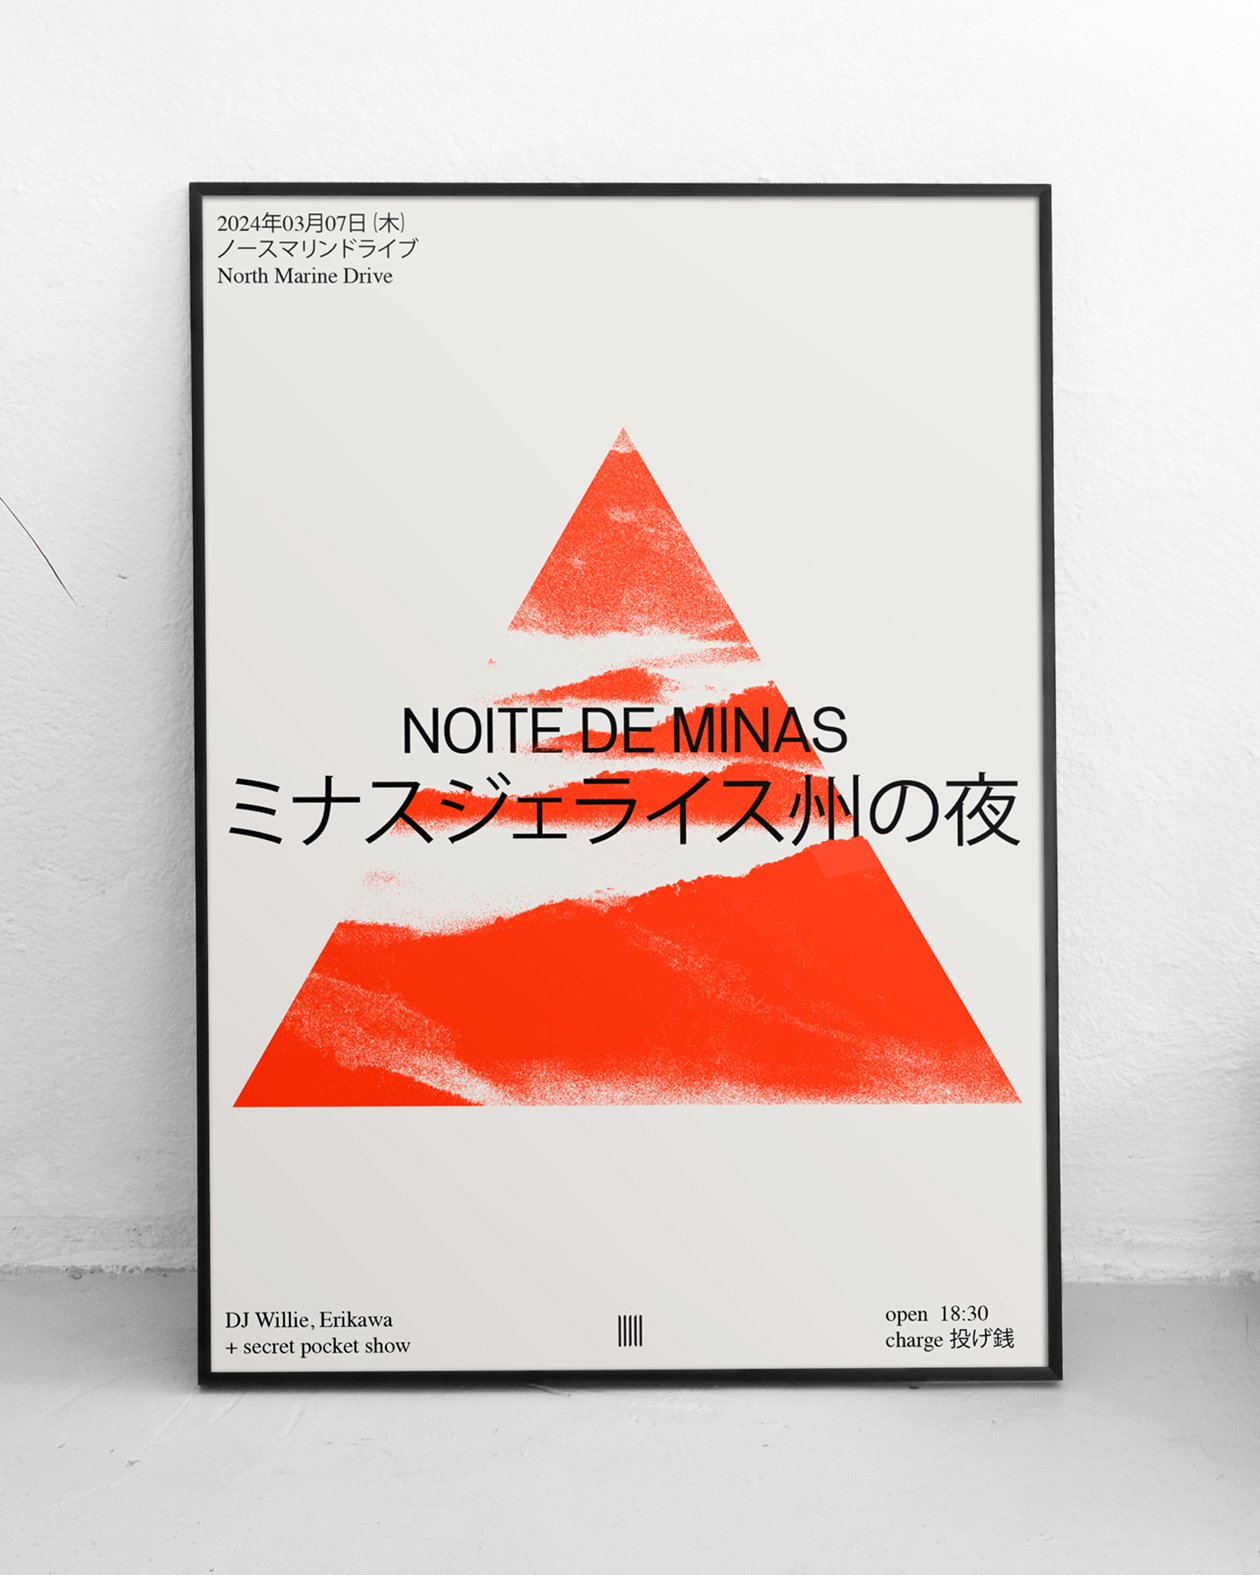
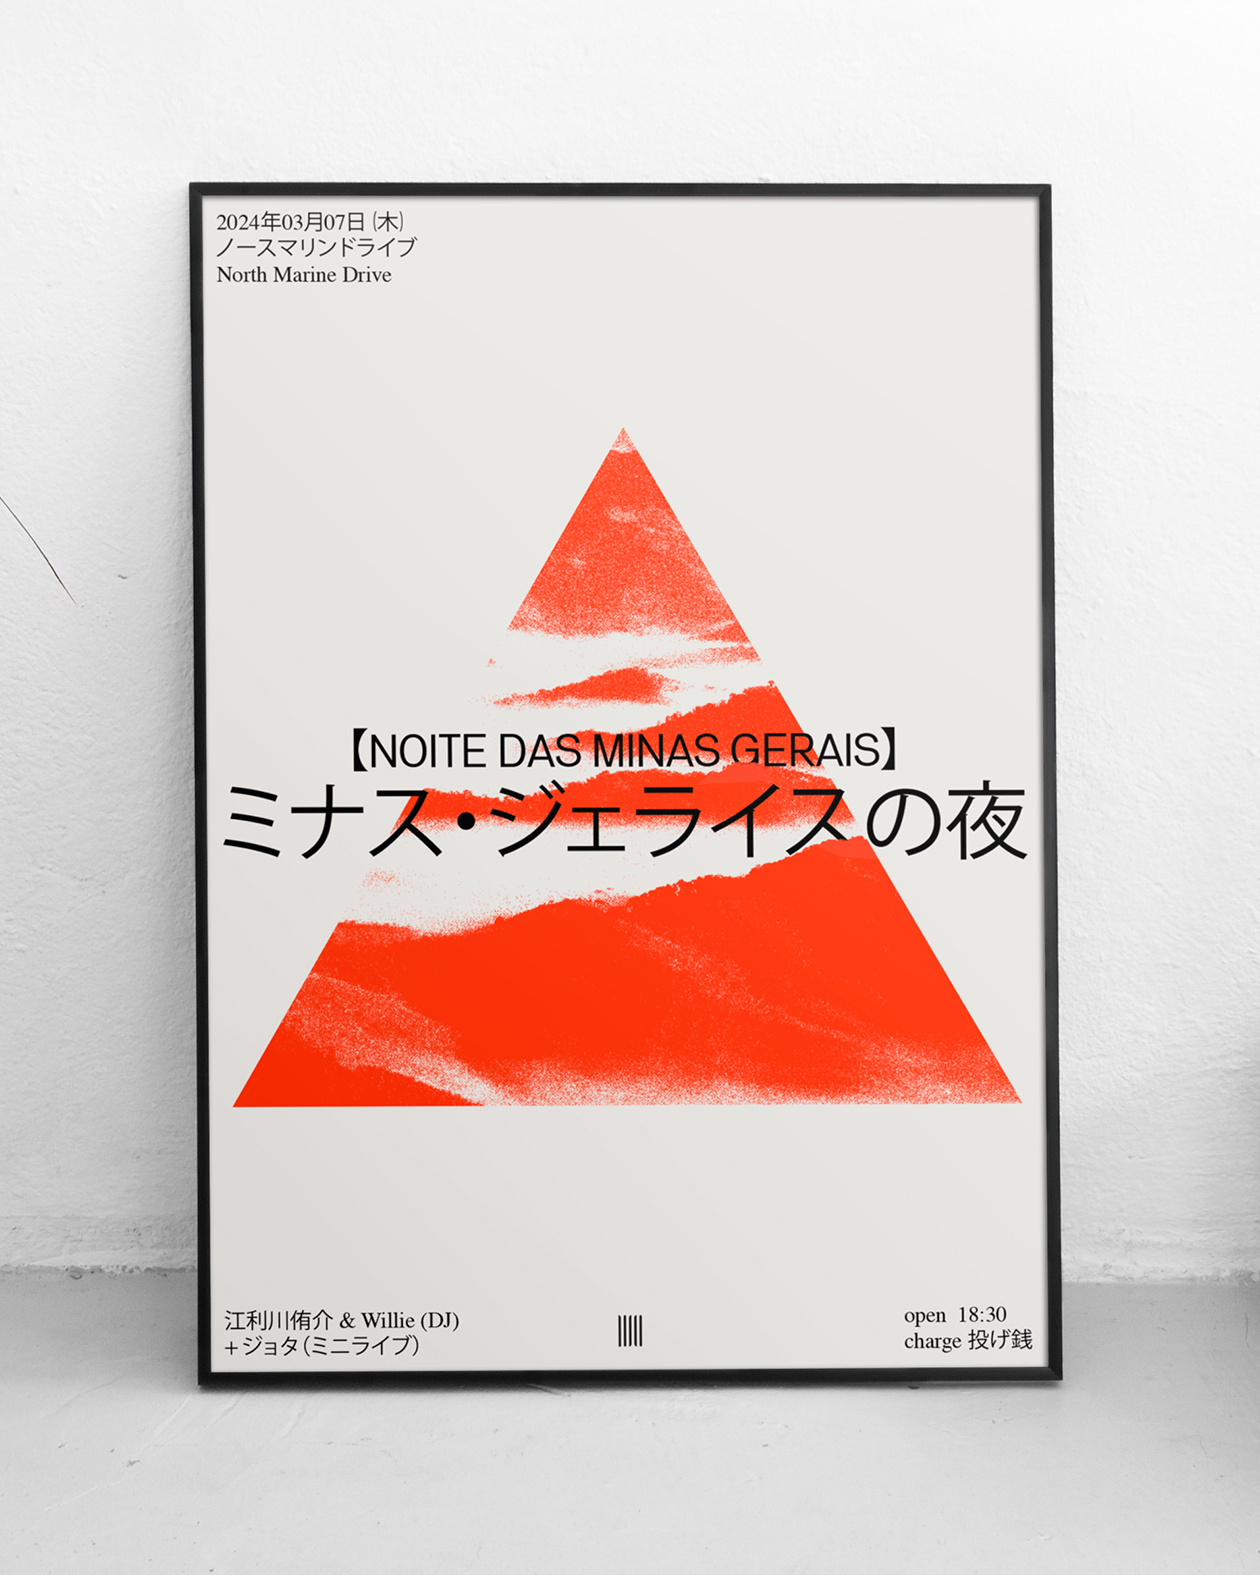
content: update projects

diff --git a/public/index.html b/public/index.html
@@ -73,38 +73,38 @@
   </grid>
   <grid columns="4" columns-sm="1" gap="8" class="index__posts"><grid-cell >
         <figure>
-        <img loading="lazy" src="240307_noitedeminas/noitedeminas@thumbnail.jpg" alt="ジョタ, 江利川侑介 ＆ Willie (DJ) @ ノースマリンドライブ" /><figcaption>
-              ジョタ, 江利川侑介 ＆ Willie (DJ) @ ノースマリンドライブ (2024) /  Music event in Shibuya
+        <img loading="lazy" src="240307_noitedeminas/noitedeminas@thumbnail.jpg" alt="ジョタ（ミニライブ）, 江利川侑介 &amp; Willie (DJ) @ ノースマリンドライブ" /><figcaption>
+              ジョタ（ミニライブ）, 江利川侑介 &amp; Willie (DJ) @ ノースマリンドライブ (2024) /  Art for music event in Tokyo
             </figcaption></figure>
       </grid-cell><grid-cell >
         <figure>
         <img loading="lazy" src="240216_pxshdr/pxshdr@thumbnail.png" alt="PXSHDR" /><figcaption>
-              PXSHDR (2024) /  Camera image to grid of characters or shapes
+              PXSHDR (2024) /  Program to convert live camera image to grid of characters or shapes
             </figcaption></figure>
       </grid-cell><grid-cell >
         <figure>
         <img loading="lazy" src="231222_gentil35/gentil35@thumbnail.jpg" alt="Gentil 35" /><figcaption>
-              Gentil 35 (2023) /  Poster for a party
+              Gentil 35 (2023) /  Art for a party
             </figcaption></figure>
       </grid-cell><grid-cell span="2" span-sm="row">
         <figure>
         <img loading="lazy" src="230301_joandrawedding/joandra-wedding@thumbnail.jpg" alt="Wedding site" /><figcaption>
-              Wedding site (2023) /  One-page web app with cart, payment integration and RSVP form
+              Wedding site (2023) /  Web app with cart, payment integration and RSVP form
             </figcaption></figure>
       </grid-cell><grid-cell span="2" span-sm="row">
         <figure>
         <img loading="lazy" src="230121_strktr/strktr@thumbnail.png" alt="STRKTR" /><figcaption>
-              STRKTR (2023) /  Displaced cirlces probability-based composition generator
+              STRKTR (2023) /  Program to generate probability-based compositions of displaced cirlces
             </figcaption></figure>
       </grid-cell><grid-cell >
         <figure>
         <img loading="lazy" src="221118_gustavobertoniportugal/gustavobertoniportugal-19@thumbnail.jpg" alt="Gustavo Bertoni Portugal mini tour" /><figcaption>
-              Gustavo Bertoni Portugal mini tour (2022) /  Posters for artist&#39;s concerts
+              Gustavo Bertoni Portugal mini tour (2022) /  Series of posters for a tour
             </figcaption></figure>
       </grid-cell><grid-cell >
         <figure>
         <img loading="lazy" src="221013_jayhorsthtomleerichards/jayhorsthtomleerichards@thumbnail.jpg" alt="Jay Horsth, Tom Lee Richards @ A Obra" /><figcaption>
-              Jay Horsth, Tom Lee Richards @ A Obra (2022) /  Concert digital poster
+              Jay Horsth, Tom Lee Richards @ A Obra (2022) /  Art for a concert
             </figcaption></figure>
       </grid-cell><grid-cell >
         <figure>
@@ -114,12 +114,12 @@
       </grid-cell><grid-cell span="2" span-sm="row">
         <figure>
         <img loading="lazy" src="220422_songbook/songbook@thumbnail.jpg" alt="The Great LaTeX Songbook" /><figcaption>
-              The Great LaTeX Songbook (2022) /  Multi-instrument songbook generator
+              The Great LaTeX Songbook (2022) /  Program to generate songbooks for multiple instruments
             </figcaption></figure>
       </grid-cell><grid-cell span="2" span-sm="row">
         <figure>
         <img loading="lazy" src="220122_jaysolitude/jaysolitude@thumbnail.jpg" alt="Jay Horsth Solitude Tour" /><figcaption>
-              Jay Horsth Solitude Tour (2022) /  Series of iterative posters for artist&#39;s tour
+              Jay Horsth Solitude Tour (2022) /  Series of iterative posters for a tour
             </figcaption></figure>
       </grid-cell><grid-cell >
         <figure>

diff --git a/content/240307_noitedeminas/noitedeminas.md b/content/240307_noitedeminas/noitedeminas.md
@@ -1,6 +1,6 @@
 ---
-title: ジョタ, 江利川侑介 ＆ Willie (DJ) @ ノースマリンドライブ
+title: ジョタ（ミニライブ）, 江利川侑介 & Willie (DJ) @ ノースマリンドライブ
 date: 2024-03-07
 thumbnail: noitedeminas.jpg
-description: Music event in Shibuya
+description: Art for music event in Tokyo
 ---

diff --git a/content/230121_strktr/strktr.md b/content/230121_strktr/strktr.md
@@ -1,7 +1,7 @@
 ---
 title: STRKTR
 date: 2023-01-21
-description: Displaced cirlces probability-based composition generator
+description: Program to generate probability-based compositions of displaced cirlces
 thumbnail: strktr.png
 thumbnail-wide: true
 ---

diff --git a/content/230301_joandrawedding/joandra-wedding.md b/content/230301_joandrawedding/joandra-wedding.md
@@ -1,7 +1,7 @@
 ---
 title: Wedding site
 date: 2023-03-01
-description: One-page web app with cart, payment integration and RSVP form
+description: Web app with cart, payment integration and RSVP form
 thumbnail: joandra-wedding.jpg
 thumbnail-wide: true
 ---

diff --git a/content/220422_songbook/songbook.md b/content/220422_songbook/songbook.md
@@ -1,7 +1,7 @@
 ---
 title: The Great LaTeX Songbook
 date: 2022-04-22
-description: Multi-instrument songbook generator
+description: Program to generate songbooks for multiple instruments
 thumbnail: songbook.jpg
 thumbnail-wide: true
 ---

diff --git a/content/220122_jaysolitude/jaysolitude.md b/content/220122_jaysolitude/jaysolitude.md
@@ -1,7 +1,7 @@
 ---
 title: Jay Horsth Solitude Tour
 date: 2022-01-22
-description: Series of iterative posters for artist's tour
+description: Series of iterative posters for a tour
 thumbnail: jaysolitude.jpg
 thumbnail-wide: true
 ---

diff --git a/content/240216_pxshdr/pxshdr.md b/content/240216_pxshdr/pxshdr.md
@@ -2,5 +2,5 @@
 title: PXSHDR
 date: 2024-02-16
 thumbnail: pxshdr.png
-description: Camera image to grid of characters or shapes
+description: Program to convert live camera image to grid of characters or shapes
 ---

diff --git a/content/221118_gustavobertoniportugal/gustavobertoniportugal.md b/content/221118_gustavobertoniportugal/gustavobertoniportugal.md
@@ -1,6 +1,6 @@
 ---
 title: Gustavo Bertoni Portugal mini tour
 date: 2022-11-18
-description: Posters for artist's concerts
+description: Series of posters for a tour
 thumbnail: gustavobertoniportugal-19.jpg
 ---

diff --git a/content/221013_jayhorsthtomleerichards/jayhorsthtomleerichards.md b/content/221013_jayhorsthtomleerichards/jayhorsthtomleerichards.md
@@ -1,6 +1,6 @@
 ---
 title: Jay Horsth, Tom Lee Richards @ A Obra
 date: 2022-10-13
-description: Concert digital poster
+description: Art for a concert
 thumbnail: jayhorsthtomleerichards.jpg
 ---

diff --git a/content/231222_gentil35/gentil35.md b/content/231222_gentil35/gentil35.md
@@ -1,6 +1,6 @@
 ---
 title: Gentil 35
 date: 2023-12-22
-description: Poster for a party
+description: Art for a party
 thumbnail: gentil35.jpg
 ---
